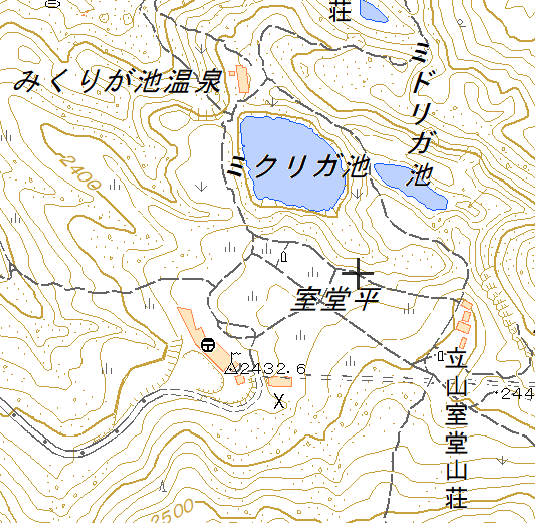
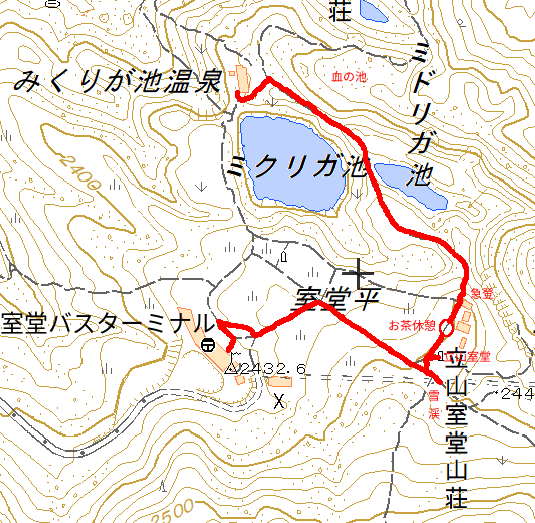
国土地理院指定の修正

diff --git a/201808/24.html b/201808/24.html
@@ -27,11 +27,14 @@
       <p>最初の目標を、誰でも登れる 3000m 峰とひどい言われようの乗鞍岳にしました。やはり畳平から乗鞍岳山頂までの標高差が少なく、北アルプスの中では最も登りやすい山の一つであろうという判断からです。登頂目標は 2020 年夏としました。</p>
       <p class="mid-flow"><img src="fig2018082401.jpg" width="512" height="339"><br>
       <span>Photo:あやがね [<a href="https://creativecommons.org/licenses/by-nc/2.0/" class="external">CC BY-NC 2.0</a>], <a href="https://www.flickr.com/photos/ayagane/14890424841/" class="external">via Flickr</a></span></p>
-      <p><a href="https://maps.gsi.go.jp/#5/36.107017/137.550405/&base=std&ls=std&disp=1&vs=c1j0h0k0l0u0t0z0r0s0f1" class="external">電子国土の地理院地図</a>で調べてみたのですが、バスターミナルがある畳平 (下の地図の鳥居のマークがあるところ付近) の標高が約 2704.8m。肩の小屋の標高が約 2759.4m。標高差が約 54.6m しかなく、しかも車が通れるような道のため、体幹機能障害があっても問題なく歩けそうです。</p>
+      <p><a href="https://maps.gsi.go.jp/#5/36.107017/137.550405/&base=std&ls=std&disp=1&vs=c1j0h0k0l0u0t0z0r0s0f1" class="external">電子国土の地理院地図</a>で調べてみたのですが、バスターミナルがある畳平の標高が約 2704.8m。肩の小屋の標高が約 2759.4m。標高差が約 54.6m しかなく、しかも車が通れるような道のため、体幹機能障害があっても問題なく歩けそうです。</p>
       <p>肩の小屋を過ぎてからですが、地図を見る限り歩行距離約 200m はあまり斜度もきつくはなさそうですがそれ以降から稜線に向けては斜度が急激に急峻になっていくのがわかります。おそらくここから稜線までが乗鞍岳登山の正念場になるのでしょう。肩の小屋から乗鞍岳剣ヶ峰まで標高差約 266.3m。全標高差約 320.9m。頑張らねばなりません。</p>
       <p class="center">&lt;&lt;予定ではここに国土地理院の地図が入ります。ただいま利用許可申請中です。&gt;&gt;</p>
       <!--
-      <p class="mid-flow"><img src="fig2018082402.png" width="411" height="642">&nbsp<a href="https://maps.gsi.go.jp/#5/36.107017/137.550405/&base=std&ls=std&disp=1&vs=c1j0h0k0l0u0t0z0r0s0f1" class="external">国土地理院</a> 承認番号 ()</p>
+      <p class="mid-flow">
+        <img src="fig2018082402.png" width="411" height="642"><br>
+        <a href="https://maps.gsi.go.jp/#5/36.107017/137.550405/&base=std&ls=std&disp=1&vs=c1j0h0k0l0u0t0z0r0s0f1" class="external">国土地理院</a> 承認番号 ()
+      </p>
       -->
       <p>この斜度の昇り降りををクリアするためにも筋トレが欠かせないなと考えています。また障害で走ることができずランニングができないので、家の近所の山や六甲山などで障害があっても登れそうなルートを頻繁に登って心肺機能強化に務めたいと思っています。</p>
       <p class="mid-flow"><img src="fig2018082403.jpg" width="512" height="342"><br>

diff --git a/201808/04.html b/201808/04.html
@@ -18,15 +18,8 @@
       <p>さて、朝ご飯です。みくりが池温泉の朝ご飯はビュッフェスタイルです。結構メニューが沢山あって全部は取りきれません。なので自分が気に入ったものをピックアップして食べることになります。ビュッフェスタイルですが残念ながらパンはありません。ご飯とお味噌汁です。これはこれでいいものですしパンが出てくるようならそれはもう山小屋ではなくホテルです。</p>
       <img src="fig2018080402.jpg" width="512" height="340">
       <p>さて、この日の予定ですが午前中は私と娘はみくりが池を時計回りにまわり、立山室堂山荘を経由して室堂ターミナル (下の地図の郵便局の記号のある建物) まで本当に階段無しで歩けるのか偵察に行きます。距離は昨日歩いた距離の約 2.5倍の距離になります。</p>
-      <p class="mid-flow">
-        <img src="fig2018080403.png" width="249" height="240"><br>
-        <a href="https://maps.gsi.go.jp/#15/36.581996/137.596207/&base=std&ls=std&disp=1&vs=c1j0h0k0l0u0t0z0r0s0f1" class="external">国土地理院の電子地形図25000を掲載</a><br>
-      </p>
-      <p class="center">
-        &lt;&lt;ここの地図は<a href="http://www.gsi.go.jp/LAW/2930-index.html" class="external">国土地理院の地図の利用手続</a>に従って掲載しています。&gt;&gt;<br>
-        &lt;&lt;後日大きく見やすいものと差し替えますが、&gt;&gt;<br>
-        &lt;&lt;そちらは国土地理院に申請をしているところです。&gt;&gt;
-      </p>
+      <p>歩いたルートは下の地図の赤線部分になります。</p>
+      <p class="center">&lt;&lt;地図は現在国土地理院に掲載申請中です&gt;&gt;</p>
       <!--
       <p class="mid-flow"><img src="fig2018080403.png" width="535" height="523"><br>
       <a href="http://maps.gsi.go.jp/#16/36.581996/137.596207/&base=std&ls=std&disp=1&vs=c1j0h0k0l0u0t0z0r0s0f0" class="external">国土地理院</a> 承認番号 ()</p>
